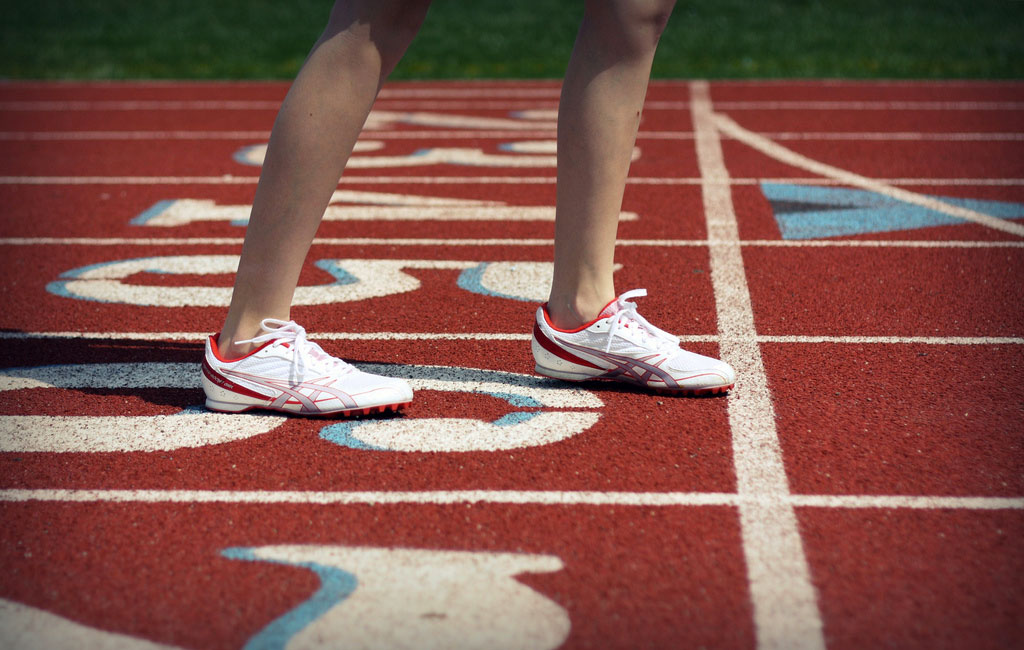
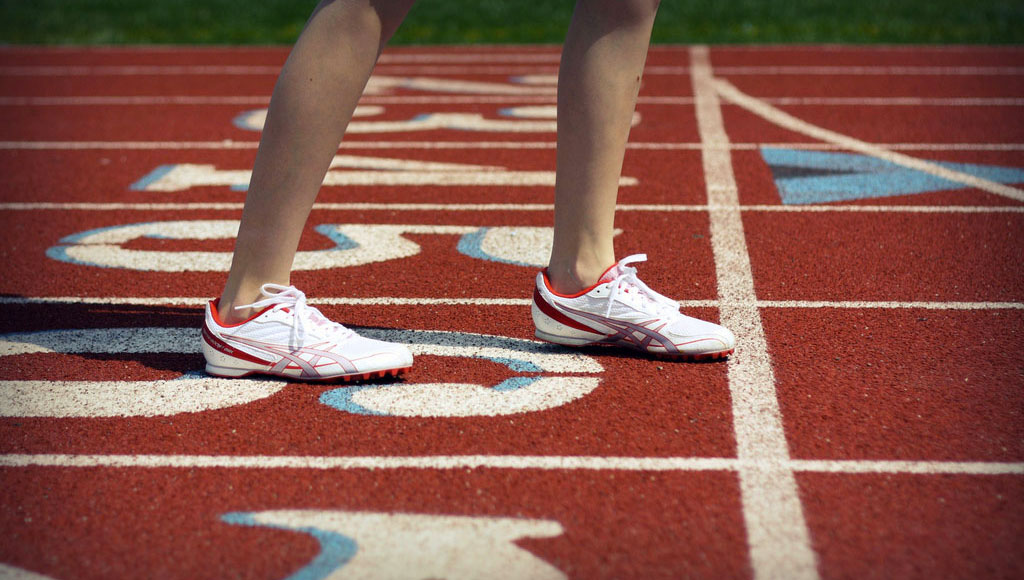
misc updates

diff --git a/app/css/application.css b/app/css/application.css
@@ -307,7 +307,10 @@ iframe {
       border-right: none; }
     .img-choice-container .img-choice img {
       -webkit-filter: grayscale(80%);
-      opacity: 0.8; }
+      opacity: 0.8;
+      height: auto;
+      min-height: 300px;
+      min-width: 450px; }
     .img-choice-container .img-choice.active {
       opacity: 1; }
       .img-choice-container .img-choice.active img {

diff --git a/app/css/scss/application.scss b/app/css/scss/application.scss
@@ -128,7 +128,11 @@ $choice-circle-radius: 30px;
     opacity:0.6;
     &:first-child { border-left: none; }
     &:last-child  { border-right: none; }
-		img { -webkit-filter: #{'grayscale(80%)'}; opacity: 0.8;}
+		img { -webkit-filter: #{'grayscale(80%)'}; opacity: 0.8;
+		height: auto;
+		min-height: 300px;
+		min-width: 450px;
+		}
     &.active {
 	    opacity:1;
 
